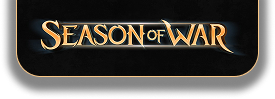
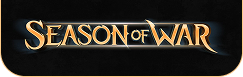
wip

diff --git a/src/lib/components/timeline.svelte b/src/lib/components/timeline.svelte
@@ -6,62 +6,64 @@
 
 </script>
 
-<div class="w-full flex items-center justify-end !bg-transparent px-8 max-w-[800px]">
+<div class="bg-white/15 mr-1 w-full flex items-center justify-end px-2 py-2 max-w-[800px] rounded-full backdrop-blur-sm border-1 border-black/30">
     <button class="shrink-0 opacity-50 hover:opacity-100 mr-2" onclick={()=> {
         selectedWeek.update(w => Math.max(0, w-1));
     }} >
-        <img src={chevronLeft} alt="chevron-left" class="!rotate-180 w-5 h-5 shrink-0"/>
+        <img src={chevronLeft} alt="chevron-left" class="!rotate-180 w-5 h-5 shrink-0 brightness-200 hover:contrast-200"/>
     </button>
+    
     <button disabled={1-1 > CURRENT_WEEK} aria-label="Select Week 1" onclick={()=>{
         selectedWeek.set(1-1);
-    }} class={`${$selectedWeek === 1-1 && "selected-week"} rounded-full border-white border-2 w-6 h-6 md:w-8 md:h-8 shrink-0 ${$selectedWeek >= 1-1 ? "opacity-100": 1-1 > CURRENT_WEEK ? "opacity-10": "opacity-40"}`}></button>
-    <div class={`grow h-1 w-full bg-white min-w-4 ${$selectedWeek >= 2-1 ? "opacity-100": "opacity-40"}`}></div>
+    }} class={`${$selectedWeek === 1-1 && "selected-week"} transition-all rounded-full border-white border-2 w-6 h-6 md:w-8 md:h-8 shrink-0 ${$selectedWeek >= 1-1 ? "opacity-100": 1-1 > CURRENT_WEEK ? "opacity-10": "opacity-60"}`}></button>
+    
+    <div class={`grow transition-opacity h-1 w-full bg-white min-w-4 ${$selectedWeek >= 2-1 ? "opacity-100": "opacity-60"}`}></div>
+    
     <button disabled={2-1 > CURRENT_WEEK} aria-label="Select Week 2" onclick={()=>{
         selectedWeek.set(2-1);
-    }} class={`${$selectedWeek === 2-1 && "selected-week"} rounded-full border-white border-2 w-6 h-6 md:w-8 md:h-8 shrink-0 ${$selectedWeek >= 2-1 ? "opacity-100": 2-1 > CURRENT_WEEK ? "opacity-10": "opacity-40"}`}></button>
+    }} class={`${$selectedWeek === 2-1 && "selected-week"} transition-all rounded-full border-white border-2 w-6 h-6 md:w-8 md:h-8 shrink-0 ${$selectedWeek >= 2-1 ? "opacity-100": 2-1 > CURRENT_WEEK ? "opacity-10": "opacity-60"}`}></button>
     
-    <div class={`grow h-1 w-full bg-white min-w-4 ${$selectedWeek >= 3-1 ? "opacity-100" : 3-1 > CURRENT_WEEK ? "opacity-10": "opacity-40"}`}></div>
+    <div class={`grow transition-opacity h-1 w-full bg-white min-w-4 ${$selectedWeek >= 3-1 ? "opacity-100" : 3-1 > CURRENT_WEEK ? "opacity-10": "opacity-60"}`}></div>
 
     <button disabled={3-1 > CURRENT_WEEK} aria-label="Select Week 3" onclick={()=>{
         selectedWeek.set(3-1);
-    }} class={`${$selectedWeek === 3-1 && "selected-week"} rounded-full border-white border-2 w-6 h-6 md:w-8 md:h-8 shrink-0 ${$selectedWeek >= 3-1 ? "opacity-100": 3-1 > CURRENT_WEEK ? "opacity-10": "opacity-40"}`}></button>
+    }} class={`${$selectedWeek === 3-1 && "selected-week"} transition-all rounded-full border-white border-2 w-6 h-6 md:w-8 md:h-8 shrink-0 ${$selectedWeek >= 3-1 ? "opacity-100": 3-1 > CURRENT_WEEK ? "opacity-10": "opacity-60"}`}></button>
     
-    <div class={`grow h-1 w-full bg-white min-w-4 ${$selectedWeek >= 4-1 ? "opacity-100" : 4-1 > CURRENT_WEEK ? "opacity-10": "opacity-40"}`}></div>
+    <div class={`grow transition-opacity h-1 w-full bg-white min-w-4 ${$selectedWeek >= 4-1 ? "opacity-100" : 4-1 > CURRENT_WEEK ? "opacity-10": "opacity-60"}`}></div>
 
     <button disabled={4-1 > CURRENT_WEEK} aria-label="Select Week 4" onclick={()=>{
         selectedWeek.set(4-1);
-    }} class={`${$selectedWeek === 4-1 && "selected-week"} rounded-full border-white border-2 w-6 h-6 md:w-8 md:h-8 shrink-0 ${$selectedWeek >= 4-1 ? "opacity-100": 4-1 > CURRENT_WEEK ? "opacity-10": "opacity-40"}`}></button>
+    }} class={`${$selectedWeek === 4-1 && "selected-week"} transition-all rounded-full border-white border-2 w-6 h-6 md:w-8 md:h-8 shrink-0 ${$selectedWeek >= 4-1 ? "opacity-100": 4-1 > CURRENT_WEEK ? "opacity-10": "opacity-60"}`}></button>
     
-    <div class={`grow h-1 w-full bg-white min-w-4 ${$selectedWeek >= 5-1 ? "opacity-100" : 5-1 > CURRENT_WEEK ? "opacity-10": "opacity-40"}`}></div>
+    <div class={`grow transition-opacity h-1 w-full bg-white min-w-4 ${$selectedWeek >= 5-1 ? "opacity-100" : 5-1 > CURRENT_WEEK ? "opacity-10": "opacity-60"}`}></div>
 
     <button disabled={5-1 > CURRENT_WEEK} aria-label="Select Week 5" onclick={()=>{
         selectedWeek.set(5-1);
-    }} class={`${$selectedWeek === 5-1 && "selected-week"} rounded-full border-white border-2 w-6 h-6 md:w-8 md:h-8 shrink-0 ${$selectedWeek >= 5-1 ? "opacity-100": 5-1 > CURRENT_WEEK ? "opacity-10": "opacity-40"}`}></button>
+    }} class={`${$selectedWeek === 5-1 && "selected-week"} transition-all rounded-full border-white border-2 w-6 h-6 md:w-8 md:h-8 shrink-0 ${$selectedWeek >= 5-1 ? "opacity-100": 5-1 > CURRENT_WEEK ? "opacity-10": "opacity-60"}`}></button>
     
-    <div class={`grow h-1 w-full bg-white min-w-4 ${$selectedWeek >= 6-1 ? "opacity-100" : 6-1 > CURRENT_WEEK ? "opacity-10": "opacity-40"}`}></div>
+    <div class={`grow transition-opacity h-1 w-full bg-white min-w-4 ${$selectedWeek >= 6-1 ? "opacity-100" : 6-1 > CURRENT_WEEK ? "opacity-10": "opacity-60"}`}></div>
 
     <button disabled={6-1 > CURRENT_WEEK} aria-label="Select Week 6" onclick={()=>{
         selectedWeek.set(6-1);
-    }} class={`${$selectedWeek === 6-1 && "selected-week"} rounded-full border-white border-2 w-6 h-6 md:w-8 md:h-8 shrink-0 ${$selectedWeek >= 6-1 ? "opacity-100": 6-1 > CURRENT_WEEK ? "opacity-10": "opacity-40"}`}></button>
+    }} class={`${$selectedWeek === 6-1 && "selected-week"} transition-all rounded-full border-white border-2 w-6 h-6 md:w-8 md:h-8 shrink-0 ${$selectedWeek >= 6-1 ? "opacity-100": 6-1 > CURRENT_WEEK ? "opacity-10": "opacity-60"}`}></button>
     
-    <div class={`grow h-1 w-full bg-white min-w-4 ${$selectedWeek >= 7-1 ? "opacity-100" : 7-1 > CURRENT_WEEK ? "opacity-10": "opacity-40"}`}></div>
+    <div class={`grow transition-opacity h-1 w-full bg-white min-w-4 ${$selectedWeek >= 7-1 ? "opacity-100" : 7-1 > CURRENT_WEEK ? "opacity-10": "opacity-60"}`}></div>
 
     <button disabled={7-1 > CURRENT_WEEK} aria-label="Select Week 7" onclick={()=>{
         selectedWeek.set(7-1);
-    }} class={`${$selectedWeek === 7-1 && "selected-week"} rounded-full border-white border-2 w-6 h-6 md:w-8 md:h-8 shrink-0 ${$selectedWeek >= 7-1 ? "opacity-100": 7-1 > CURRENT_WEEK ? "opacity-10": "opacity-40"}`}></button>
+    }} class={`${$selectedWeek === 7-1 && "selected-week"} transition-all rounded-full border-white border-2 w-6 h-6 md:w-8 md:h-8 shrink-0 ${$selectedWeek >= 7-1 ? "opacity-100": 7-1 > CURRENT_WEEK ? "opacity-10": "opacity-60"}`}></button>
     
-    <div class={`grow h-1 w-full bg-white min-w-4 ${$selectedWeek >= 8-1 ? "opacity-100" : 8-1 > CURRENT_WEEK ? "opacity-10": "opacity-40"}`}></div>
+    <div class={`grow transition-opacity h-1 w-full bg-white min-w-4 ${$selectedWeek >= 8-1 ? "opacity-100" : 8-1 > CURRENT_WEEK ? "opacity-10": "opacity-60"}`}></div>
 
     <button disabled={8-1 > CURRENT_WEEK} aria-label="Select Week 8" onclick={()=>{
         selectedWeek.set(8-1);
-    }} class={`${$selectedWeek === 8-1 && "selected-week"} rounded-full border-white border-2 w-6 h-6 md:w-8 md:h-8 shrink-0 ${$selectedWeek >= 8-1 ? "opacity-100": 8-1 > CURRENT_WEEK ? "opacity-10": "opacity-40" }`}></button>
+    }} class={`${$selectedWeek === 8-1 && "selected-week"} transition-all rounded-full border-white border-2 w-6 h-6 md:w-8 md:h-8 shrink-0 ${$selectedWeek >= 8-1 ? "opacity-100": 8-1 > CURRENT_WEEK ? "opacity-10": "opacity-60" }`}></button>
 
     <button class="shrink-0 opacity-50 hover:opacity-100" onclick={()=> {
         selectedWeek.update(w => Math.min(CURRENT_WEEK, w+1));
     }} >
-
-<img src={chevron} alt="chevron-right" class="w-5 h-5 shrink-0 ml-2"/>
-</button>
+        <img src={chevron} alt="chevron-right" class="w-5 h-5 shrink-0 ml-2 brightness-200 hover:contrast-200"/>
+    </button>
 </div>
 
 

diff --git a/src/lib/components/GASelector.svelte b/src/lib/components/GASelector.svelte
@@ -12,7 +12,7 @@
   $selectedFactions
 
 </script>
-<div class="flex items-center gap-4 p-4">
+<div class="flex items-center gap-4 h-min py-0 px-2 m-2 rounded-full border-1 border-black/30 backdrop-blur-sm">
   <button onclick={()=>selectedFactions.update(sf=> {
     if (sf.length ===4) {
       return [GA.Order]
@@ -24,7 +24,7 @@
     })}>
     <img 
       class={
-        $selectedFactions.length < 4 && $selectedFactions.includes(GA.Order) 
+          $selectedFactions.includes(GA.Order) 
           ? "bg-order-color hover:!opacity-75 active" 
           : "inactive hover:!opacity-75"
       } 
@@ -42,7 +42,7 @@
     })}>
     <img 
       class={
-        $selectedFactions.length < 4 && $selectedFactions.includes(GA.Chaos) 
+          $selectedFactions.includes(GA.Chaos) 
           ? "bg-chaos-color hover:!opacity-75 active" 
           : "inactive hover:!opacity-75"
       } 
@@ -60,7 +60,7 @@
     })}>
     <img 
       class={
-        $selectedFactions.length < 4 && $selectedFactions.includes(GA.Death) 
+          $selectedFactions.includes(GA.Death) 
           ? "bg-death-color hover:!opacity-75 active" 
           : "inactive hover:!opacity-75"
       } 
@@ -78,20 +78,21 @@
     })}>
     <img 
       class={
-        $selectedFactions.length < 4 && $selectedFactions.includes(GA.Destruction) 
+          $selectedFactions.includes(GA.Destruction) 
           ? "bg-destruction-color hover:!opacity-75 active" 
           : "inactive hover:!opacity-75"
       } 
       alt={"destruction"} 
       src={destruction} />
   </button>
+  <div class="h-full w-1 -mr-2 border-r-1 border-r-black/30 text-transparent">-</div>
   <button onclick={()=>selectedFactions.update(sf=> {
       if (sf.length === 4) {
         return []
       }
       return [GA.Order, GA.Chaos, GA.Death, GA.Destruction]
     })}>
-    <img id="all-factions" class={$selectedFactions.length === 4 ? "hover:!opacity-75 active" : "inactive hover:!opacity-75"} alt={"all"} src={all} />
+    <img id="all-factions" class={`-my-2 ${$selectedFactions.length === 4 ? "hover:!opacity-75 active" : "inactive hover:!opacity-75"}`} alt={"all"} src={all} />
   </button>
 </div>
 

diff --git a/src/lib/components/territory.svelte b/src/lib/components/territory.svelte
@@ -39,14 +39,12 @@
       currentOwner = territory.owner[$selectedWeek];
     }
   })
+  const polygonTerritories =document.getElementsByClassName("tooltip-class-123")
+  for (let core of polygonTerritories) {
+    console.log(core)
+  }
 </script> 
 
-<style>
-  /* @import "../../app.css"; */
-  /* @tailwind base;
-  @tailwind components;
-  @tailwind utilities; */
-</style>
 
 <Polygon
   latLngs={points} 
@@ -55,13 +53,14 @@
   fillOpacity={$selectedFactions.includes(currentOwner) ? .3 : .2}
   color={`${$selectedFactions.includes(currentOwner) ? GABorderColor[currentOwner] : "#121711"}`} 
   fillColor={`${$selectedFactions.includes(currentOwner) ? GAColor[currentOwner] : GAColor[currentOwner]}`} 
-  options={{noClip: true }}
-  >
-  <Tooltip><div>{territory.name}</div></Tooltip>  
-  <Popup options={{keepInView: false}}>
+  options={{noClip: true, className: ".polygon-class-123" }}
+
+>
+  <Tooltip options={{className: ".tooltip-class-123"}}><div class="">{territory.name}</div></Tooltip>  
+  <Popup options={{keepInView: false, autoPanPadding: [0, 100]}}>
     <div class="flex flex-col gap-2 max-w-[80vw] pb-8">
       <div class="flex w-full justify-between items-center">
-        <div class="text-3xl font-semibold">{territory.name}</div>
+        <div class="text-xl font-semibold">{territory.name}</div>
           <GrandAllianceCrest ga={currentOwner}/>
       </div>
         <div class="px-1 text-base">{territory.description}</div>

diff --git a/src/routes/+layout.svelte b/src/routes/+layout.svelte
@@ -9,8 +9,8 @@
 </script>
 {@render children()}
 <div class="fixed top-0 left-0 w-full flex justify-between items-start">
-  <a href="https://www.youtube.com/seasonofwar"><img style="height: 82px" src={sowTitle} alt="Season of War" /></a>
-  <div class="translate-y-4 flex justify-end items-center w-full">
+  <a href="https://www.youtube.com/seasonofwar" class="mx-4 shrink-0 group bg-gradient-to-b from-black to-black/0 shadow-sm"><img style="height: 64px" class="group-hover:opacity-90 opacity-80 transition-opacity" src={sowTitle} alt="Season of War" /></a>
+  <div class="translate-y-1 flex justify-end items-center w-full">
     <Timeline />
   </div>
 </div>

diff --git a/src/lib/components/leaflet-override.css b/src/lib/components/leaflet-override.css
@@ -1,12 +1,22 @@
 @import "../../app.css";
 
 .leaflet-container {
-	background: black !important;
-	outline: 0;
+  background: black !important;
+  outline: 0;
 }
 .leaflet-popup-content-wrapper {
-  background: rgba(0,0,0,0.5) !important;
+  background: rgba(0, 0, 0, 0.5) !important;
   backdrop-filter: blur(10px);
-  border: 1px solid rgba(255,255,255);
+  border: 1px solid rgba(255, 255, 255);
   color: white;
+}
+
+.leaflet-tooltip {
+  color: white !important;
+  font-size: 1.5rem;
+  text-align: center;
+  box-shadow: none;
+  /* position: fixed !important; */
+  border: transparent;
+  background-color: transparent !important;
 }
